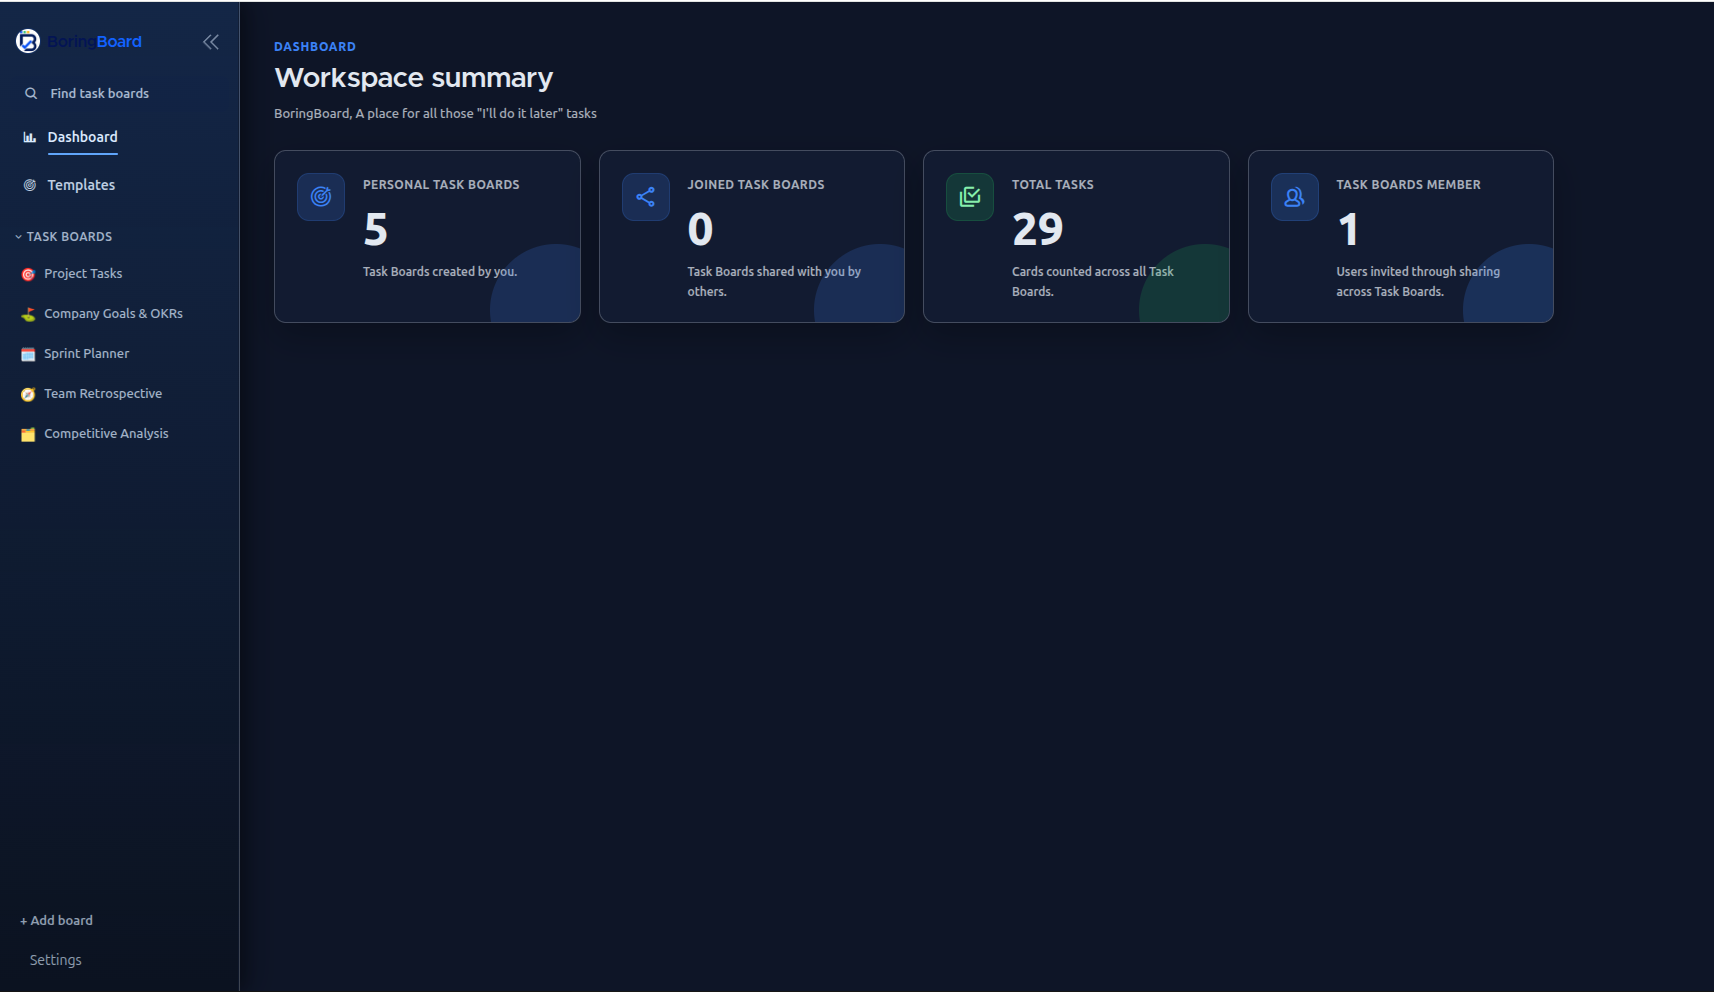
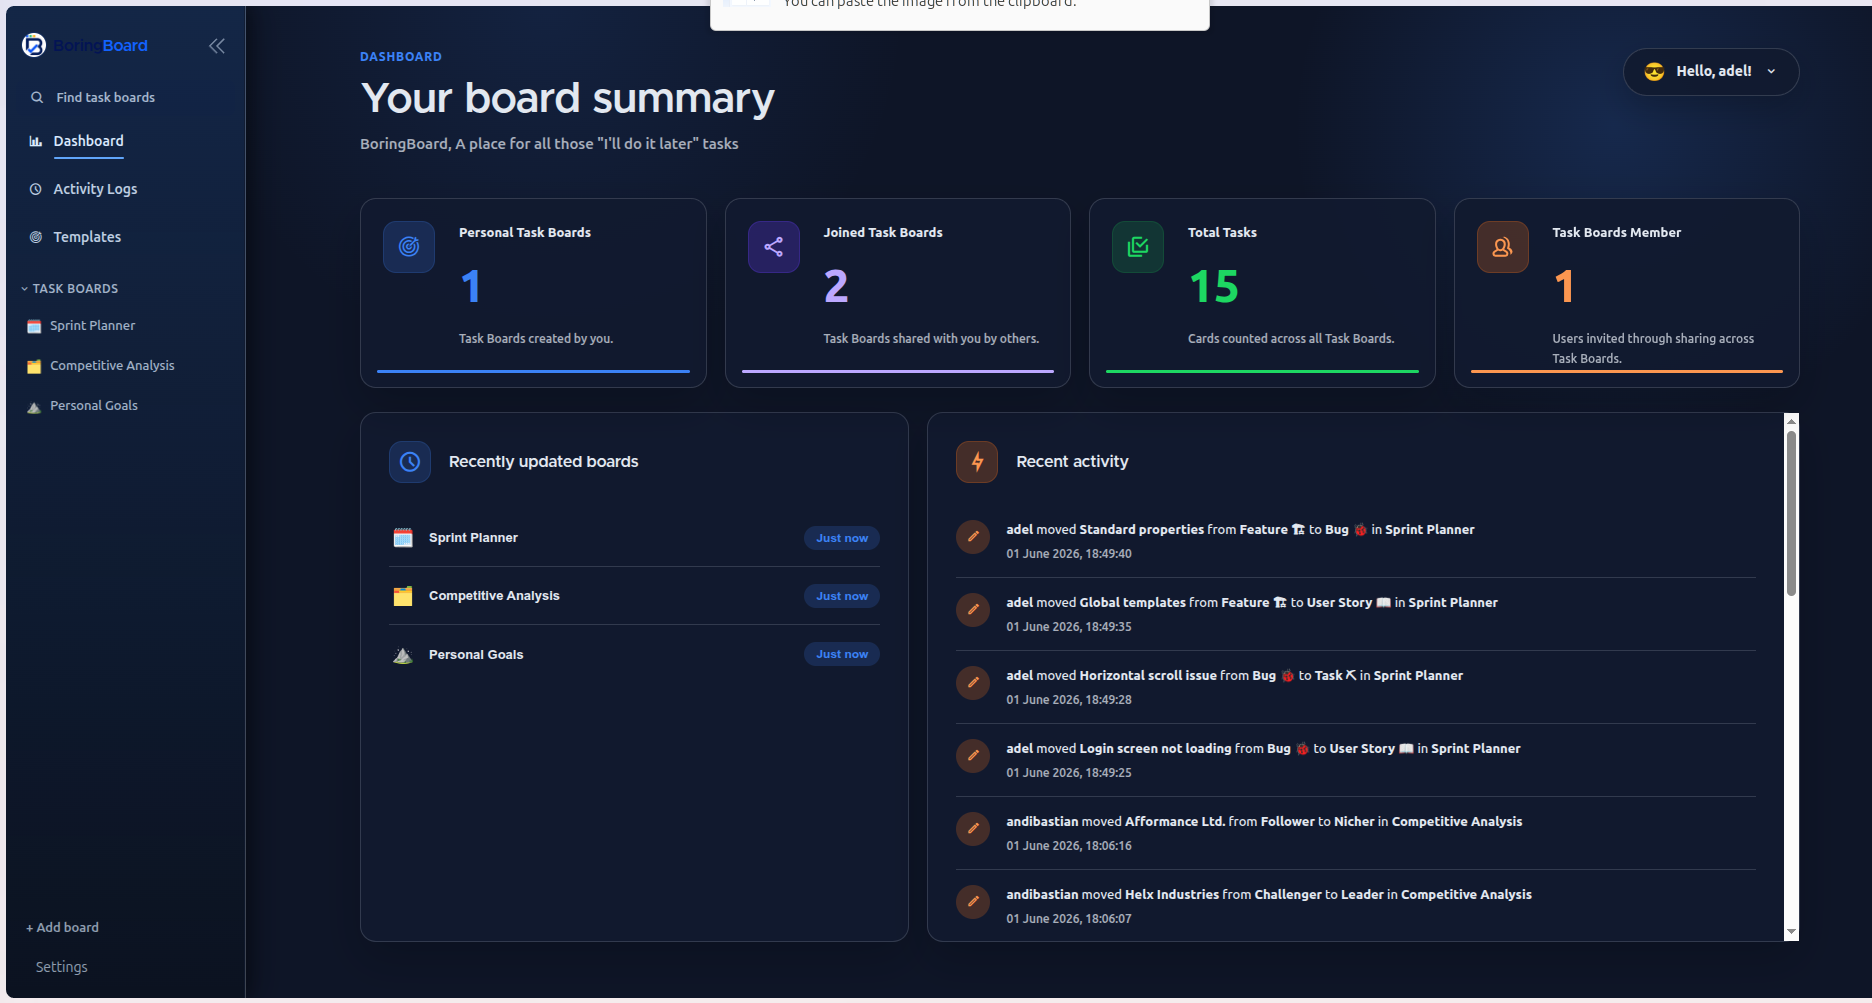
update readme

diff --git a/README.md b/README.md
@@ -2,7 +2,10 @@
 
 BoringBoard is fork of Focalboard for my own project management workflow.
 
+Default Theme
 ![BoringBoard](README.assets/boringboard.png)
+
+Dark Theme
 ![BoringBoard](README.assets/boringboard-dark.png)
 
 ## How to start
@@ -96,6 +99,7 @@ Once the server is running, you can rebuild just the web app via `make webapp` i
     - `docker build -f docker/Dockerfile .`
   - To build it for a custom architecture (experimental):
     - `docker build -f docker/Dockerfile --platform linux/arm64 .`
+
 ### Unit testing
 
 Before checking in commits, run `make ci`, which includes: